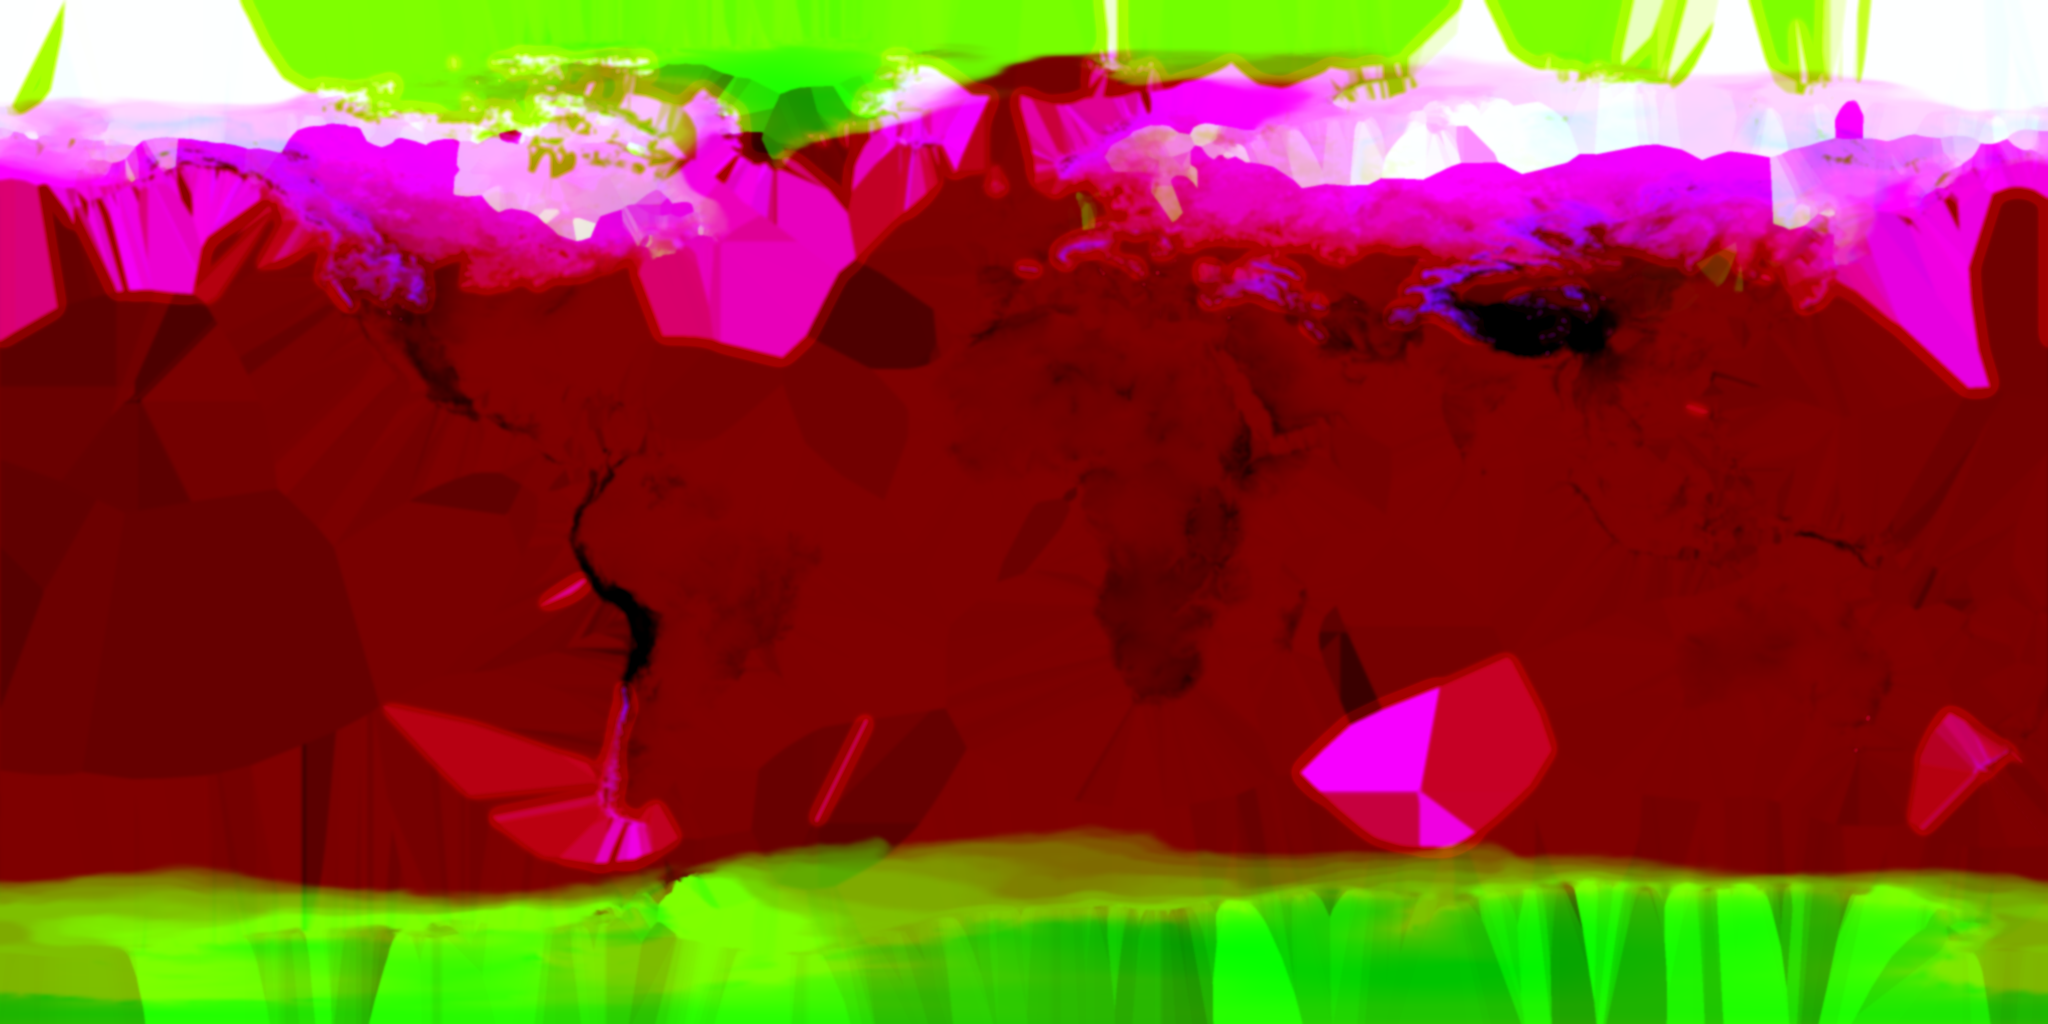
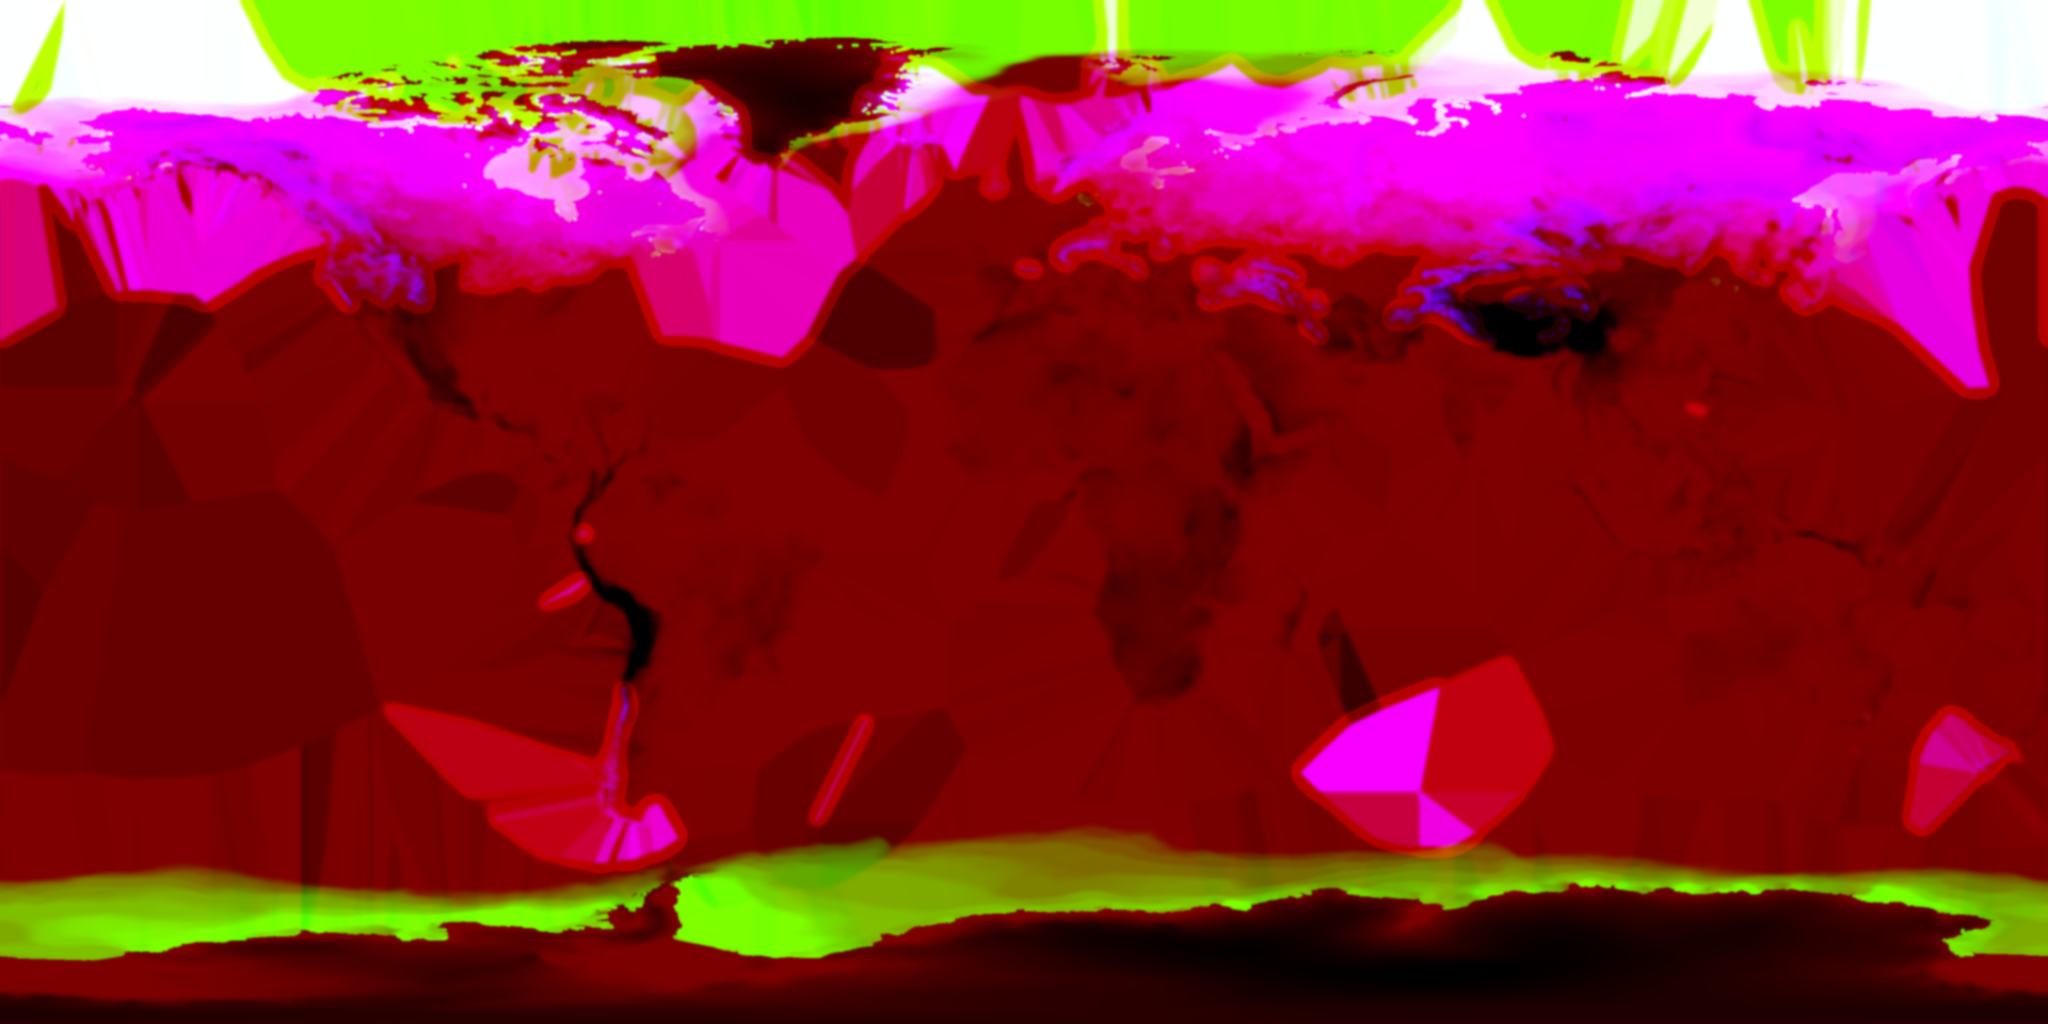
WIP planet: the margin by the distance from snow; the snow's height by the heights' texels; lakes of dry cold country [skip ci]
Claude-Session: https://claude.ai/code/session_01CkFqLMvuGhuwnN1DAzGLbd

diff --git a/src/terrain.js b/src/terrain.js
@@ -557,7 +557,10 @@
       // the snow of the Alps ended at one line over ridge and valley alike; here a valley is green for most of its winter under
       // white mountains, and the ranges of a dry plateau have their winter snow while the plateau has none.)
       float noiseL = 0.5 * log2(max(max(dot(dFdx(vGL), dFdx(vGL)), dot(dFdy(vGL), dFdy(vGL))), 1e-30)) + 9.0;      // (the level the card would take of the noise at one repeat a radian)
-      float snowHere = clamp(natv.a * 4.0 - 3.0 + vH * 0.0005, 0.0, 1.25);
+      // (Its height by the heights' own texels, not by the mesh's corners: from far out a quad of the mesh is tens of kilometres,
+      //  and by the corners the snow's edge was a smooth line that moved as the mesh grew finer under the eye. By the texels it
+      //  is as ragged as the country, from every height the same.)
+      float snowHere = clamp(natv.a * 4.0 - 3.0 + 0.25 * (hE + hW + hS + hN) * 0.0005, 0.0, 1.25);
       float winterSnow = winter * mix(0.12, 1.0, smoothstep(0.05, 0.5, snowHere));
       float snowLine0 = max(-900.0, 5100.0 - 4800.0 * pow(latN0, 1.3) - max(0.0, winterSnow - 0.4) * seasonK + max(0.0, 0.4 - winter) * seasonK * 0.35) + clim * 700.0 * (1.0 - smoothstep(0.5, 0.75, latN0));
       float ice = max(info.g, white * max(smoothstep(snowLine0 - 900.0, snowLine0 + 200.0, vH), smoothstep(0.7, 0.8, latN0)));
@@ -960,7 +963,11 @@
           //  a white mist over the country.)
           float open = clamp((lum0 - 0.2) * 3.0, -0.3, 0.4) * smoothstep(0.2, 0.6, green);      // (in green country: bare ground is light and says nothing by it)
           float edgeW = mix(0.05, 0.2, smoothstep(-7.5, -4.5, noiseL)) + 0.25 * smoothstep(-4.5, -2.5, noiseL);      // (and from where a country is a hand's breadth it fades as it thins: there is no grain left to make patches of, and the snow of Poland ended at a shore)
-          float cover = smoothstep(0.5 - edgeW, 0.5 + edgeW, lying + ((0.5 - gHU) * 0.6 + open * 0.6) * (1.0 - lying) * smoothstep(0.0, 0.25, lying));
+          // (and on the slopes that face away from the sun before those that face it - in bare country, where the photograph has no
+          //  fields and woods to tell apart, the lie of the land is the grain: by height alone the thin snow of a high plain
+          //  was a white pancake cut out along a contour)
+          float shady = clamp(nEnu.y * (vLat >= 0.0 ? 1.0 : -1.0) * 1.6, -0.5, 0.5);
+          float cover = smoothstep(0.5 - edgeW, 0.5 + edgeW, lying + ((0.5 - gHU) * 0.6 + open * 0.6 + shady * 0.7) * (1.0 - lying) * smoothstep(0.0, 0.25, lying));
           // (a wood under snow is dark from above: the snow is on its floor, and the eye sees the trees - through bare boughs more of it)
           cover *= (1.0 - smoothstep(0.3, 0.65, slope)) * (1.0 - 0.75 * smoothstep(0.4, 0.7, dec.b)) * (1.0 - 0.45 * smoothstep(0.04, 0.22, dec.b)) * (1.0 - wForest * (1.0 - smoothstep(0.14, 0.32, lum0)) * mix(0.55, 0.3, bare));      // (the darker the photograph has it, the more of a wood it is)
           vec3 snowCol = vec3(0.92, 0.94, 0.97) * (0.82 + dl2 * 0.2);
@@ -1131,7 +1138,14 @@
       //  is open weeks after the last. By the snow lying at the moment, Ladoga was open water in March. Not where a month of
       //  snow is all the winter there is: from far out the Danish straits are a lake to the picture's map.)
       float iceOff = acos(clamp(2.0 * mix(uIceCold.y, uIceCold.x, hemi) - 1.0, -1.0, 1.0)) * 0.31831;      // (how far the year is from the end of winter: 0 early in March, 1 half a year on)
-      float frozen = smoothstep(0.0, 0.06, snowHere * 0.75 - 0.08 - iceOff) * smoothstep(0.3, 0.6, info.b);      // (hard winters from 0.6: Winnipeg's are 0.72)
+      // (Where the sea beside it freezes, a water freezes as that sea does and not by this rule: from far out a strait is a lake to
+      //  the picture's map, and by the snow of Sweden the Danish belts were ice into April.)
+      float iceIn = natv.g * 1.2 - 0.1 - iceOff;
+      // (High dry country has its hard winters without the snow: the lakes of Tibet freeze under a sky that brings none. And a
+      //  lake freezes from its shores: out in a great one the ice comes weeks later and goes weeks sooner.)
+      float coldShare = smoothstep(0.85, 1.0, info.b) * smoothstep(0.27, 0.36, latN0) * 0.55;
+      float lakeSeason = max(snowHere, coldShare) * 0.75 - 0.08 - (wOn > 0.5 ? 0.07 * smoothstep(300.0, 3000.0, off) : 0.0);
+      float frozen = max(smoothstep(0.0, 0.06, lakeSeason - iceOff) * smoothstep(0.3, 0.6, info.b) * (1.0 - smoothstep(0.02, 0.06, natv.g)), smoothstep(0.01, 0.05, iceIn));      // (hard winters from 0.6: Winnipeg's are 0.72)
       #else
       float frozen = snowLying * smoothstep(0.5, 0.85, info.b);
       #endif
@@ -1149,7 +1163,6 @@
       //  iceOff is how far the year is from it, 0 at the end of winter and 1 half a year on. A month and more is asked
       //  before there is any (a radiometer's cell on a shore sees the land with the sea and takes it for some ice: the
       //  Danish straits froze every March), and what is ice all the year stays.)
-      float iceIn = natv.g * 1.2 - 0.1 - iceOff;
       float seaIce = smoothstep(0.01, 0.05, iceIn) * seaW;
       float floe = smoothstep(0.35, 0.65, mix(nMid.b, 0.434, smoothstep(0.0, 1.5, noiseL + 10.23)) + 0.3 * nMic.a) * smoothstep(0.02, 0.22, iceIn);
       #else

diff --git a/tools/planet/snow.py b/tools/planet/snow.py
@@ -185,13 +185,14 @@ ice = np.array(Image.fromarray(np.rint(ice * 255).astype(np.uint8)).resize((W, H
 snow = np.array(Image.fromarray(np.rint(snow * 255).astype(np.uint8)).resize((W, H), Image.BOX).filter(ImageFilter.GaussianBlur(1.6))).astype(np.float32) / 255.0
 snow = np.clip((snow - 0.03) / 0.94, 0.0, 1.0)
 high = gaussian_filter(high.reshape(H, 2, W, 2).mean((1, 3)), 1.6, mode=('nearest', 'wrap'))      # (the heights as the snow is: to the map's cells, and as smooth)
-# (Where there is no snow at all for a hundred kilometres round, all that is known is that the country's height on the whole
-#  is too low for any, and ground a good deal higher may have none either: such country is counted as if it began two
-#  thousand metres above itself - the Hoggar stands 1,700 m above the Sahara about it and has no winter, nor have the
-#  ridges of the Puna. By how much snow there is round a place, smooth over a hundred kilometres, never by the cell's
-#  own: taken off wherever a cell had none, the snow of a high plain ended at a cliff - white pancakes on Qinghai.)
-near = gaussian_filter(snow, 5.0, mode=('nearest', 'wrap'))
-margin = 1.0 - ss(0.0, 0.02, near)
+# (Far from any snow, all that is known is that the country's height on the whole is too low for any, and ground a good deal
+#  higher may have none either: the Hoggar stands 1,700 m above the Sahara about it and has no winter, nor have the
+#  highlands of Yemen and Ethiopia. So country is counted as lying higher than it does by how far it is from the nearest
+#  snow: nothing beside it, two thousand metres from three hundred kilometres off. By the distance, which is smooth: taken
+#  off at once wherever a cell or its neighbourhood had no snow, there was a cliff in the map along the snow's edge, and the
+#  thin snow of a high plain ended at it - white pancakes on Qinghai.)
+has = gaussian_filter(snow, 2.0, mode=('nearest', 'wrap')) > 0.02
+margin = ss(1.0, 18.0, distance_transform_edt(~has))
 # How long it would lie at the level of the sea: 1 all the cold season, below nought never there. With the heights taken out
 # of it this is climate, which is smooth over a hundred kilometres, and what is left that is not smooth is one year's weather
 # and the Blue Marble's own patchwork (a month's picture is pieced together from its clearest days: a hole in the snow of

diff --git a/CLAUDE.md b/CLAUDE.md
@@ -527,9 +527,13 @@ Conventions that matter:
   cell's own height on the whole accounts for (the game's heights, smoothed as the snow is), `(share + 3) / 4` in
   red - and every place adds its own height back: `snowHere = clamp(map x 4 - 3 + height x 0.0005, 0, 1.25)`. A
   valley of the Alps is green for most of its winter under white mountains; the high ranges of a dry plateau have
-  snow while the plateau has none. Country without any snow for a hundred kilometres round counts as if it began
-  2,000 m above itself (the Hoggar has no winter) - by the snow round a place, smooth, never by the cell's own (the
-  snow of a high plain ended at a cliff: white pancakes on Qinghai). The same number brings the snow line of
+  snow while the plateau has none. Far from any snow, country counts as lying higher than it does: by 2,000 m from
+  three hundred kilometres off (the Hoggar has no winter, nor Yemen, nor Ethiopia), by nothing beside the snow - by
+  the distance, which is smooth (taken off at once, there was a cliff in the map along the snow's edge). With the
+  heights out of it the map is climate, smooth over a hundred kilometres: it is the middle value within seventy,
+  which lets go of one year's holes and islands (a hole in the snow of Mazovia with the edges of a tile). And a
+  place's own height is that of the heights' texels (`hE` .. `hN`), not of the mesh's corners: from far out a quad
+  is tens of kilometres, and the snow's edge was a smooth line that moved as the mesh grew finer under the eye. The same number brings the snow line of
   the mountains down in winter (`winterSnow`).
   *The season.* Snow of so much of the cold season lies for just so long about the depth of winter: `snowOff =
   acos(2 x cold - 1) / pi` is how far the year is from that (`uBare.z/.w`: 0 late in January, 1 half a year on),
